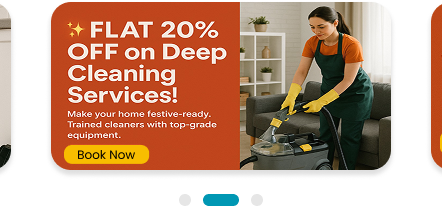
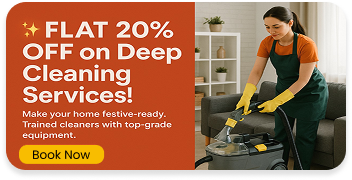
updated remaining pics

diff --git a/src/data/servicesData.js b/src/data/servicesData.js
@@ -1,5 +1,5 @@
 // Services Data - Only Click User App
-// Complete service catalog with all 111 services
+// Complete service catalog with all services
 
 export const serviceCategories = [
   {
@@ -225,11 +225,28 @@ export const allServices = [
     duration: '20 minutes',
     rating: 4.8,
     reviews: 312,
-    image: { uri: 'https://res.cloudinary.com/dsjcgs6nu/image/upload/v1751557197/ChatGPT_Image_Jul_3_2025_08_23_43_AM_p72ebu.png' },
+    image: { uri: 'https://res.cloudinary.com/dsjcgs6nu/image/upload/v1751698002/ChatGPT_Image_Jul_5_2025_12_16_28_PM_bi4jq9.png' },
     tags: ['Same Day'],
     includes: ['Mounting', 'Wiring', 'Testing'],
     professional: 'Certified Electrician'
   },
+  {
+  serviceId: '007OC',
+  category: 'electrical',
+  subCategory: 'Lighting Solutions',
+  title: 'Fancy Light Installation',
+  description: 'Professional installation of decorative and fancy lights to enhance your space.',
+  price: 599,
+  originalPrice: 799,
+  discount: 25,
+  duration: '1-2 hours',
+  rating: 4.8,
+  reviews: 145,
+  image: { uri: 'https://res.cloudinary.com/dsjcgs6nu/image/upload/v1751734235/ChatGPT_Image_Jul_5_2025_10_20_06_PM_ait91x.png' },
+  tags: ['Decorative', 'Premium'],
+  includes: ['Mounting', 'Wiring', 'Testing'],
+  professional: 'Lighting Specialist'
+},
   {
     serviceId: '011OC',
     category: 'electrical',
@@ -276,7 +293,7 @@ export const allServices = [
     duration: '1-2 hours',
     rating: 4.9,
     reviews: 156,
-    image: { uri: 'https://res.cloudinary.com/dsjcgs6nu/image/upload/v1751557197/ChatGPT_Image_Jul_3_2025_08_23_43_AM_p72ebu.png' },
+    image: { uri: 'https://res.cloudinary.com/dsjcgs6nu/image/upload/v1751722335/ChatGPT_Image_Jul_5_2025_07_01_58_PM_f9ygcd.png' },
     tags: ['Premium', 'Decorative'],
     includes: ['Ceiling mounting', 'Wiring', 'Testing'],
     professional: 'Lighting Specialist'
@@ -332,23 +349,23 @@ export const allServices = [
     includes: ['Mounting', 'Wiring', 'Testing'],
     professional: 'Technician'
   },
-  {
-    serviceId: '017OC',
-    category: 'electrical',
-    subCategory: 'Doorbell Installation',
-    title: 'Video Doorbell Installation',
-    description: 'Installation of smart video doorbell systems',
-    price: 600,
-    originalPrice: null,
-    discount: null,
-    duration: '1 hour',
-    rating: 4.9,
-    reviews: 189,
-    image: { uri: 'https://res.cloudinary.com/dsjcgs6nu/image/upload/v1751557197/ChatGPT_Image_Jul_3_2025_08_23_43_AM_p72ebu.png' },
-    tags: ['Smart Home'],
-    includes: ['Mounting', 'Configuration', 'Testing'],
-    professional: 'Smart Home Specialist'
-  },
+  // {
+  //   serviceId: '017OC',
+  //   category: 'electrical',
+  //   subCategory: 'Doorbell Installation',
+  //   title: 'Video Doorbell Installation',
+  //   description: 'Installation of smart video doorbell systems',
+  //   price: 600,
+  //   originalPrice: null,
+  //   discount: null,
+  //   duration: '1 hour',
+  //   rating: 4.9,
+  //   reviews: 189,
+  //   image: { uri: 'https://res.cloudinary.com/dsjcgs6nu/image/upload/v1751557197/ChatGPT_Image_Jul_3_2025_08_23_43_AM_p72ebu.png' },
+  //   tags: ['Smart Home'],
+  //   includes: ['Mounting', 'Configuration', 'Testing'],
+  //   professional: 'Smart Home Specialist'
+  // },
   {
     serviceId: '018OC',
     category: 'electrical',
@@ -417,23 +434,23 @@ export const allServices = [
     includes: ['Meter box', 'Connection cables', 'Testing'],
     professional: 'Certified Electrician'
   },
-  {
-    serviceId: '022OC',
-    category: 'electrical',
-    subCategory: 'Appliance Installation',
-    title: 'Home Theatre Installation',
-    description: 'Installation and setup of home theatre systems',
-    price: 199,
-    originalPrice: null,
-    discount: null,
-    duration: '1 hour',
-    rating: 4.7,
-    reviews: 198,
-    image: { uri: 'https://res.cloudinary.com/dsjcgs6nu/image/upload/v1751557197/ChatGPT_Image_Jul_3_2025_08_23_43_AM_p72ebu.png' },
-    tags: ['Entertainment'],
-    includes: ['Mounting', 'Connection', 'Testing'],
-    professional: 'Technician'
-  },
+  // {
+  //   serviceId: '022OC',
+  //   category: 'electrical',
+  //   subCategory: 'Appliance Installation',
+  //   title: 'Home Theatre Installation',
+  //   description: 'Installation and setup of home theatre systems',
+  //   price: 199,
+  //   originalPrice: null,
+  //   discount: null,
+  //   duration: '1 hour',
+  //   rating: 4.7,
+  //   reviews: 198,
+  //   image: { uri: 'https://res.cloudinary.com/dsjcgs6nu/image/upload/v1751557197/ChatGPT_Image_Jul_3_2025_08_23_43_AM_p72ebu.png' },
+  //   tags: ['Entertainment'],
+  //   includes: ['Mounting', 'Connection', 'Testing'],
+  //   professional: 'Technician'
+  // },
   {
     serviceId: '023OC',
     category: 'electrical',
@@ -463,7 +480,7 @@ export const allServices = [
     duration: '45 minutes',
     rating: 4.8,
     reviews: 263,
-    image: { uri: 'https://res.cloudinary.com/dsjcgs6nu/image/upload/v1751557197/ChatGPT_Image_Jul_3_2025_08_23_43_AM_p72ebu.png' },
+    image: { uri: 'https://res.cloudinary.com/dsjcgs6nu/image/upload/v1751722167/ChatGPT_Image_Jul_5_2025_03_02_54_PM_bt4dzw.png' },
     tags: ['Entertainment'],
     includes: ['Mounting', 'Connection', 'Testing'],
     professional: 'Technician'
@@ -480,7 +497,7 @@ export const allServices = [
   duration: '30 minutes',
   rating: 4.6,
   reviews: 432,
-  image: { uri: 'https://res.cloudinary.com/dsjcgs6nu/image/upload/v1751558129/ChatGPT_Image_Jul_3_2025_09_22_21_AM_uvqeyv.png' },
+  image: { uri: 'https://res.cloudinary.com/dsjcgs6nu/image/upload/v1751722167/ChatGPT_Image_Jul_5_2025_03_15_21_PM_np1pld.png' },
   tags: ['Quick Service', 'Expert Setup'],
   includes: ['Bracket fitting', 'Level alignment', 'Cable concealment'],
   professional: 'Certified Electrician'
@@ -572,7 +589,7 @@ export const allServices = [
     duration: '20-30 minutes',
     rating: 4.6,
     reviews: 154,
-    image: { uri: 'https://res.cloudinary.com/dsjcgs6nu/image/upload/v1751596604/ChatGPT_Image_Jul_3_2025_09_39_44_PM_wmlk17.png' },
+    image: { uri: 'https://res.cloudinary.com/dsjcgs6nu/image/upload/v1755349402/ChatGPT_Image_Aug_16_2025_06_33_04_PM_fne1hk.png' },
     tags: ['Quick Service'],
     includes: ['Accessory fitting', 'Leak check'],
     professional: 'Skilled Plumber'
@@ -606,7 +623,7 @@ export const allServices = [
     duration: '30 minutes',
     rating: 4.8,
     reviews: 188,
-    image: { uri: 'https://res.cloudinary.com/dsjcgs6nu/image/upload/v1751596604/ChatGPT_Image_Jul_3_2025_09_39_44_PM_wmlk17.png' },
+    image: { uri: 'https://res.cloudinary.com/dsjcgs6nu/image/upload/v1751735244/ChatGPT_Image_Jul_5_2025_10_37_01_PM_afv2yu.png' },
     tags: ['Professional'],
     includes: ['Seat cover fitting', 'Alignment check'],
     professional: 'Licensed Plumber'
@@ -708,7 +725,7 @@ export const allServices = [
     duration: '1-2 hours',
     rating: 4.8,
     reviews: 120,
-    image: { uri: 'https://res.cloudinary.com/dsjcgs6nu/image/upload/v1751596604/mixer_tap_installation.png' },
+    image: { uri: 'https://res.cloudinary.com/dsjcgs6nu/image/upload/v1755349476/ChatGPT_Image_Aug_16_2025_06_34_24_PM_afiyhu.png' },
     tags: ['Professional', 'Same Day'],
     includes: ['Mixer tap fitting', 'Leak check'],
     professional: 'Licensed Plumber'
@@ -742,7 +759,7 @@ export const allServices = [
     duration: '30-45 mins',
     rating: 4.6,
     reviews: 90,
-    image: { uri: 'https://res.cloudinary.com/dsjcgs6nu/image/upload/v1751596604/shower_filter_installation.png' },
+    image: { uri: 'https://res.cloudinary.com/dsjcgs6nu/image/upload/v1755349648/ChatGPT_Image_Aug_16_2025_06_37_16_PM_odrsbi.png' },
     tags: ['Health Friendly'],
     includes: ['Filter fitting', 'Water test'],
     professional: 'Licensed Plumber'
@@ -844,7 +861,7 @@ export const allServices = [
     duration: '30 mins',
     rating: 4.6,
     reviews: 87,
-    image: { uri: 'https://res.cloudinary.com/dsjcgs6nu/image/upload/v1751596604/drain_cover_installation.png' },
+    image: { uri: 'https://res.cloudinary.com/dsjcgs6nu/image/upload/v1751603968/ChatGPT_Image_Jul_4_2025_08_30_53_AM_ckngh3.png' },
     tags: ['Quick Service'],
     includes: ['Cover fitting', 'Secure installation'],
     professional: 'Licensed Plumber'
@@ -861,7 +878,7 @@ export const allServices = [
     duration: '1 hour',
     rating: 4.7,
     reviews: 95,
-    image: { uri: 'https://res.cloudinary.com/dsjcgs6nu/image/upload/v1751596604/drain_blockage_removal.png' },
+    image: { uri: 'https://res.cloudinary.com/dsjcgs6nu/image/upload/v1751603971/ChatGPT_Image_Jul_4_2025_08_16_51_AM_jfgkxf.png' },
     tags: ['Quick Fix'],
     includes: ['Blockage removal', 'Flow restoration'],
     professional: 'Licensed Plumber'
@@ -877,21 +894,21 @@ export const allServices = [
     duration: "30-45 mins",
     rating: 4.8,
     reviews: 120,
-    image: ""
+    image: {uri: "https://res.cloudinary.com/dsjcgs6nu/image/upload/v1755350035/ChatGPT_Image_Aug_16_2025_06_43_15_PM_lagvmd.png"}
   },
-  {
-    serviceId: "022PL",
-    category: "plumbing",
-    subCategory: "Others",
-    title: "Washing Machine Inlet",
-    description: "Install or fix washing machine inlet pipe",
-    price: 59,
-    originalPrice: "",
-    duration: "30-45 mins",
-    rating: 4.8,
-    reviews: 98,
-    image: ""
-  },
+  // {
+  //   serviceId: "022PL",
+  //   category: "plumbing",
+  //   subCategory: "Others",
+  //   title: "Washing Machine Inlet",
+  //   description: "Install or fix washing machine inlet pipe",
+  //   price: 59,
+  //   originalPrice: "",
+  //   duration: "30-45 mins",
+  //   rating: 4.8,
+  //   reviews: 98,
+  //   image: ""
+  // },
   {
     serviceId: "023PL",
     category: "plumbing",
@@ -903,7 +920,7 @@ export const allServices = [
     duration: "30-45 mins",
     rating: 4.8,
     reviews: 110,
-    image: ""
+    image: {uri: "https://res.cloudinary.com/dsjcgs6nu/image/upload/v1755350381/ChatGPT_Image_Aug_16_2025_06_49_27_PM_vo8jqx.png"}
   },
   {
     serviceId: "024PL",
@@ -929,34 +946,34 @@ export const allServices = [
     duration: "30-45 mins",
     rating: 4.8,
     reviews: 90,
-    image: ""
+    image: {uri: "https://res.cloudinary.com/dsjcgs6nu/image/upload/v1755349322/ChatGPT_Image_Aug_16_2025_06_31_00_PM_srdtwu.png"}
   },
-  {
-    serviceId: "026PL",
-    category: "plumbing",
-    subCategory: "Others",
-    title: "Water Tank Installation",
-    description: "Install new water storage tank",
-    price: 599,
-    originalPrice: "",
-    duration: "2-3 hours",
-    rating: 4.8,
-    reviews: 75,
-    image: ""
-  },
-  {
-    serviceId: "027PL",
-    category: "plumbing",
-    subCategory: "Others",
-    title: "Tank Repair",
-    description: "Repair leakage or cracks in water tank",
-    price: 99,
-    originalPrice: "",
-    duration: "1-2 hours",
-    rating: 4.8,
-    reviews: 65,
-    image: ""
-  },
+  // {
+  //   serviceId: "026PL",
+  //   category: "plumbing",
+  //   subCategory: "Others",
+  //   title: "Water Tank Installation",
+  //   description: "Install new water storage tank",
+  //   price: 599,
+  //   originalPrice: "",
+  //   duration: "2-3 hours",
+  //   rating: 4.8,
+  //   reviews: 75,
+  //   image: ""
+  // },
+  // {
+  //   serviceId: "027PL",
+  //   category: "plumbing",
+  //   subCategory: "Others",
+  //   title: "Tank Repair",
+  //   description: "Repair leakage or cracks in water tank",
+  //   price: 99,
+  //   originalPrice: "",
+  //   duration: "1-2 hours",
+  //   rating: 4.8,
+  //   reviews: 65,
+  //   image: {uri: "https://res.cloudinary.com/dsjcgs6nu/image/upload/v1755353103/ChatGPT_Image_Aug_16_2025_07_34_50_PM_cbhqmn.png"}
+  // },
   {
     serviceId: "028PL",
     category: "plumbing",
@@ -968,7 +985,7 @@ export const allServices = [
     duration: "1-2 hours",
     rating: 4.8,
     reviews: 105,
-    image: ""
+    image: {uri: "https://res.cloudinary.com/dsjcgs6nu/image/upload/v1755353103/ChatGPT_Image_Aug_16_2025_07_34_50_PM_cbhqmn.png"}
   },
   {
     serviceId: "029PL",
@@ -981,7 +998,7 @@ export const allServices = [
     duration: "30-45 mins",
     rating: 4.8,
     reviews: 72,
-    image: ""
+    image: {uri: "https://res.cloudinary.com/dsjcgs6nu/image/upload/v1755353103/ChatGPT_Image_Aug_16_2025_07_34_50_PM_cbhqmn.png"}
   },
   {
     serviceId: "030PL",
@@ -994,7 +1011,7 @@ export const allServices = [
     duration: "30 mins",
     rating: 4.9,
     reviews: 200,
-    image: ""
+    image: {uri: "https://res.cloudinary.com/dsjcgs6nu/image/upload/v1751794913/ChatGPT_Image_Apr_25_2025_05_39_10_PM_rxp7d0.png"}
   },
 
 
@@ -1268,7 +1285,7 @@ export const allServices = [
   duration: '30 minutes',
   rating: 4.3,
   reviews: 95,
-  image: { uri: "https://res.cloudinary.com/dsjcgs6nu/image/upload/v1751697148/ChatGPT_Image_Jul_4_2025_10_59_51_PM_ngni5n.png" },
+  image: { uri: "https://res.cloudinary.com/dsjcgs6nu/image/upload/v1751794913/ChatGPT_Image_Apr_25_2025_05_39_10_PM_rxp7d0.png" },
   tags: ['Basic', 'Quick Service'],
   includes: ['Inspection', 'Basic cleaning tasks'],
   professional: 'General Cleaner'

diff --git a/src/components/Home/Info.jsx b/src/components/Home/Info.jsx
@@ -33,8 +33,11 @@ export default function Info() {
     },
     carouselContainer: {
       marginTop: 15,
-      borderRadius: 10,
+      borderRadius: 15, // Increased border radius for better rounding
       overflow: 'hidden',
+      height: screenHeight * 0.25, // Adjusted height to ensure full visibility
+      width: screenWidth * 0.9, // Adjusted width to fit images
+      alignSelf: 'center', // Centered the carousel
     },
   });
   const { name, service, userId, profileImage, reviews, ratings } =
